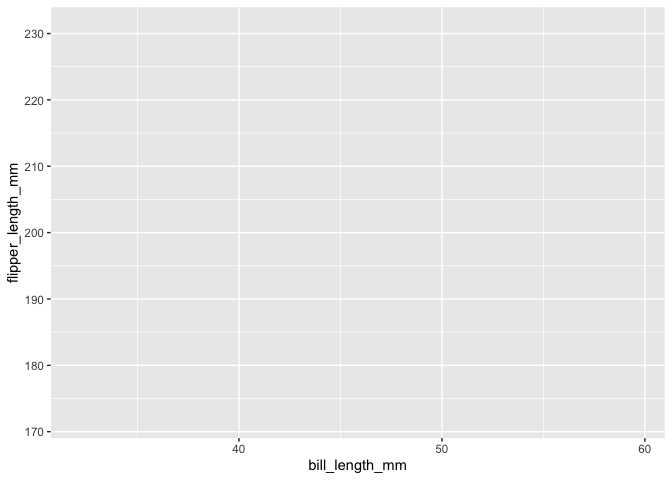
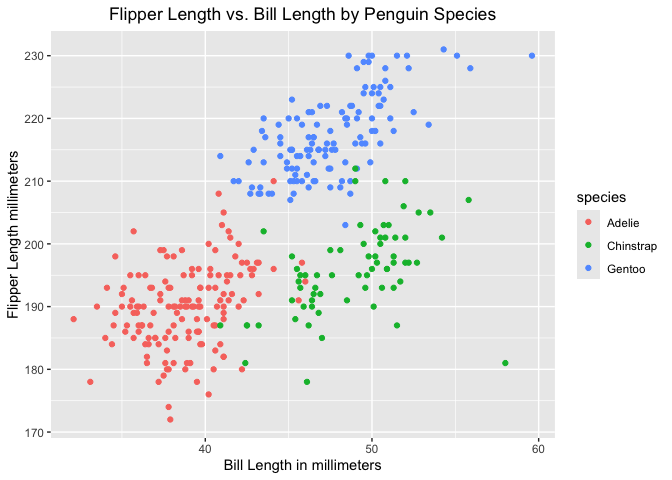
Complete question 2 by creating the sample data frame and exploring means and as.numeric() for different variable types

diff --git a/P8105_HW1_SW4257.md b/P8105_HW1_SW4257.md
@@ -4,6 +4,7 @@ P8105_HW1_SW4257
 ``` r
 library(palmerpenguins)
 library(ggplot2)
+library(tidyverse)
 ```
 
 ## Problem 1
@@ -20,11 +21,111 @@ Biscoe, Dream, Torgersen islands. Important variables include `species`,
 `year`. The dataset contains 344 observations and 8 variables. The mean
 flipper length is 200.92 mm.
 
+The code and scatterplot below show the relationship between penguins’
+bill length and flipper length in millimeters. Different colors
+represent the three penguin species. The plot was saved as
+`penguins_scatterplot.png`.
+
 ``` r
 ggplot(data = penguins,
-       aes(x = bill_length_mm, y = flipper_length_mm),
-       
-       )
+       aes(x = bill_length_mm, 
+           y = flipper_length_mm, 
+           color = species)) + 
+  geom_point(na.rm = TRUE) +
+  labs(title = "Flipper Length vs. Bill Length by Penguin Species",
+       x = "Bill Length in millimeters",
+       y = "Flipper Length millimeters") +
+  theme(plot.title = element_text(hjust = 0.5))
 ```
 
 ![](P8105_HW1_SW4257_files/figure-gfm/unnamed-chunk-3-1.png)<!-- -->
+
+``` r
+ggsave(filename = "penguins_scatterplot.png")
+```
+
+## Problem 2
+
+The data frame comprises:
+
+- a random sample of size 10 from a standard Normal distribution
+- a logical vector indicating whether elements of the sample are greater
+  than 0
+- a character vector of length 10
+- a factor vector of length 10, with 3 different factor levels
+
+is created first.
+
+``` r
+set.seed(8105)
+
+normal_sample = rnorm(10)
+
+sample_df = data.frame(
+  normal_sample = normal_sample,
+  greater_than_zero = normal_sample > 0,
+  character_vector = letters[1:10],
+  factor_vector = factor(
+    c("A", "B", "C", "A", "B", "C", "A", "B", "C", "A")
+  )
+)
+```
+
+Then, the mean of each variable in the dataframe was computed as follow:
+
+``` r
+mean(pull(sample_df, normal_sample))
+```
+
+    ## [1] 0.5520184
+
+``` r
+mean(pull(sample_df, greater_than_zero))
+```
+
+    ## [1] 0.7
+
+``` r
+mean(pull(sample_df, character_vector))
+```
+
+    ## Warning in mean.default(pull(sample_df, character_vector)): argument is not
+    ## numeric or logical: returning NA
+
+    ## [1] NA
+
+``` r
+mean(pull(sample_df, factor_vector))
+```
+
+    ## Warning in mean.default(pull(sample_df, factor_vector)): argument is not
+    ## numeric or logical: returning NA
+
+    ## [1] NA
+
+We noticed that：
+
+- The mean of the random sample is 0.552.
+- The mean of the logical variable is 0.7, indicating that 70% of the
+  sampled values are greater than zero.
+- The character and factor variables return `NA` because they are
+  neither numeric nor logical.
+
+The `as.numeric` function can convert logical, character, and factor
+variables to numeric values:
+
+``` r
+as.numeric(pull(sample_df, greater_than_zero))
+as.numeric(pull(sample_df, character_vector))
+as.numeric(pull(sample_df, factor_vector))
+```
+
+- Converting the logical variable to numeric produces 1 for TRUE and 0
+  for FALSE.
+- Converting the character variable produces NA values because its
+  letters cannot be converted to numbers.
+- Converting the factor variable produces numeric codes for its levels:
+  A, B, and C become 1, 2, and 3. This helps explain why the mean works
+  for the logical variable but not directly for the character or factor
+  variables. Although the converted factor has a numerical mean, that
+  mean is not meaningful because the numbers only represent categories.
